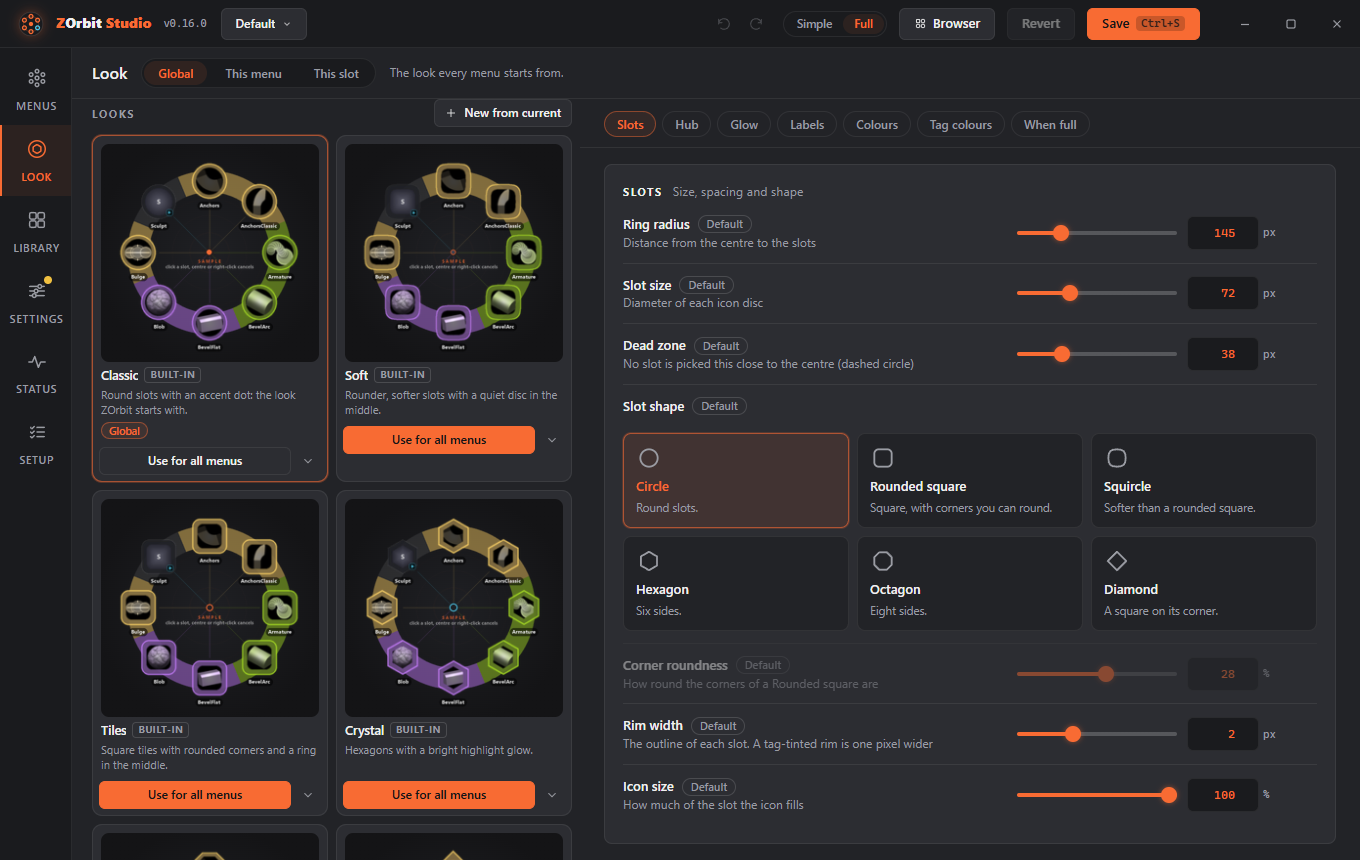
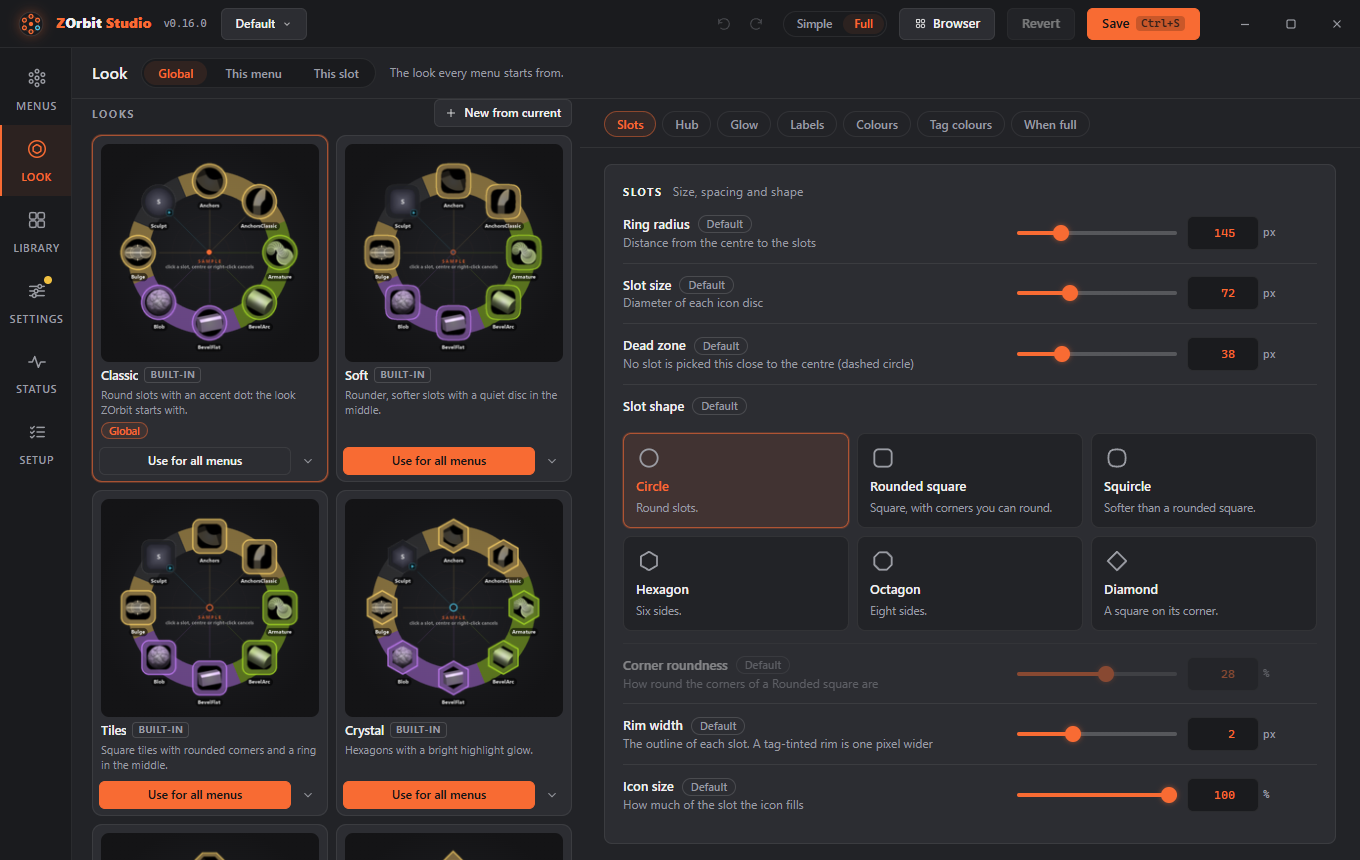
Studio: line up the buttons under the looks (#122)
The foot of each look card now sits at the bottom of the card, so the
buttons share a baseline in each row. The Look gallery picture is retaken.

Fixes #122

Changed region(s): [[0.2471, 0.4837, 0.4015, 0.5744]]

diff --git a/zorbit/studio_ui/styles.css b/zorbit/studio_ui/styles.css
@@ -1123,7 +1123,7 @@ body.dragging .irow:hover { background: transparent; }
 .lk-chipline { display: flex; flex-wrap: wrap; gap: 4px; }
 .lk-mark { height: 17px; padding: 0 7px; border-radius: 99px; font: 600 10.5px/17px var(--font); border: 1px solid var(--line2); color: var(--sub); }
 .lk-mark.glob, .lk-mark.menu, .lk-mark.edit { color: var(--accent); border-color: color-mix(in srgb, var(--accent) 45%, transparent); background: var(--accent-wash); }
-.lk-foot { display: flex; align-items: center; gap: 4px; }
+.lk-foot { display: flex; align-items: center; gap: 4px; margin-top: auto; }
 .lk-foot .btn { flex: 1; min-width: 0; overflow: hidden; text-overflow: ellipsis; }
 .lk-checks { display: flex; flex-direction: column; gap: 10px; margin-top: 4px; }
 .lk-check { display: flex; align-items: flex-start; gap: 10px; font-size: 12.5px; color: var(--text); }

diff --git a/CHANGELOG.md b/CHANGELOG.md
@@ -23,6 +23,7 @@ All notable changes to this project are listed here. The format follows
 
 ### Fixed
 
+- Studio: the buttons under the looks on the Look screen (#122) line up along the bottom of each row of cards, whatever the blurb or the marks above them take up.
 - Studio: Simple mode no longer says the hint line was changed in Full mode, Press and Toggle items are everyday items, a look you pick for one menu is not a Full-mode setting, and problem links for a look, **Swallow hotkey** or **Fan out when opened from another menu** switch to Full mode first. The Look screen's note about settings changed in Full mode now covers a single menu, and a few hints in Simple no longer name controls only Full has.
 - In ZBrush 2022 to 2025, picking an alpha, material or texture whose file is named differently from its name in the menu no longer imports it again every time. The plugin now looks for the button ZBrush names after the file.
 - `app_stderr.log` no longer grows for ever: it moves to `app_stderr.log.old` at 200 KB. `radiald.log` is now kept under 1 MB while the app runs, not only when it starts.
